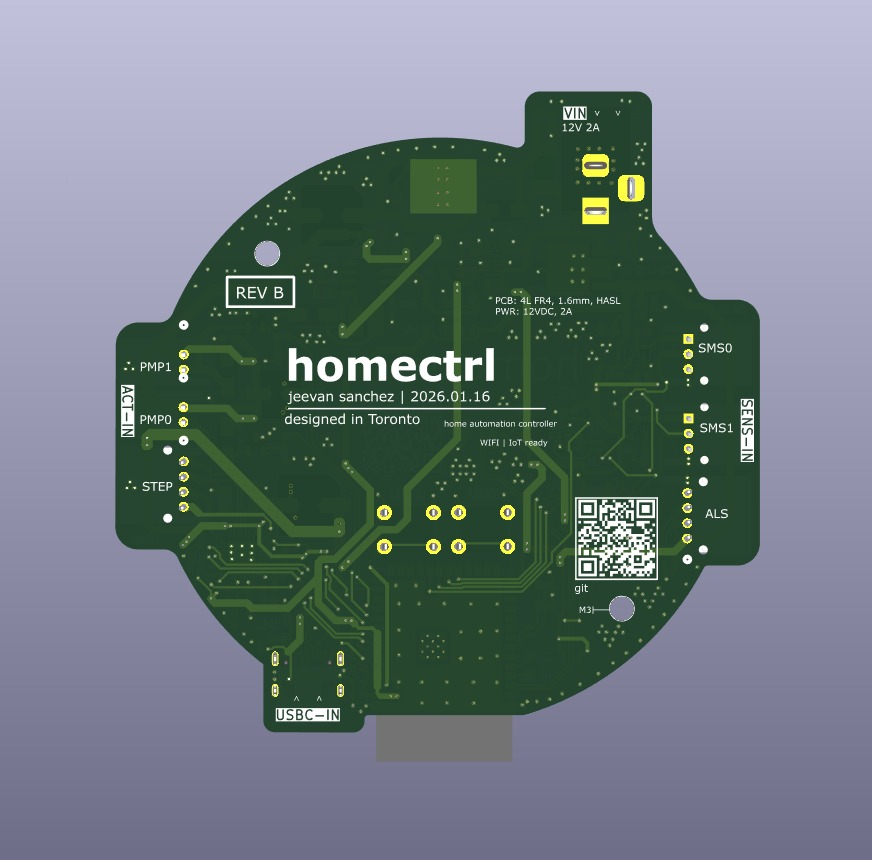
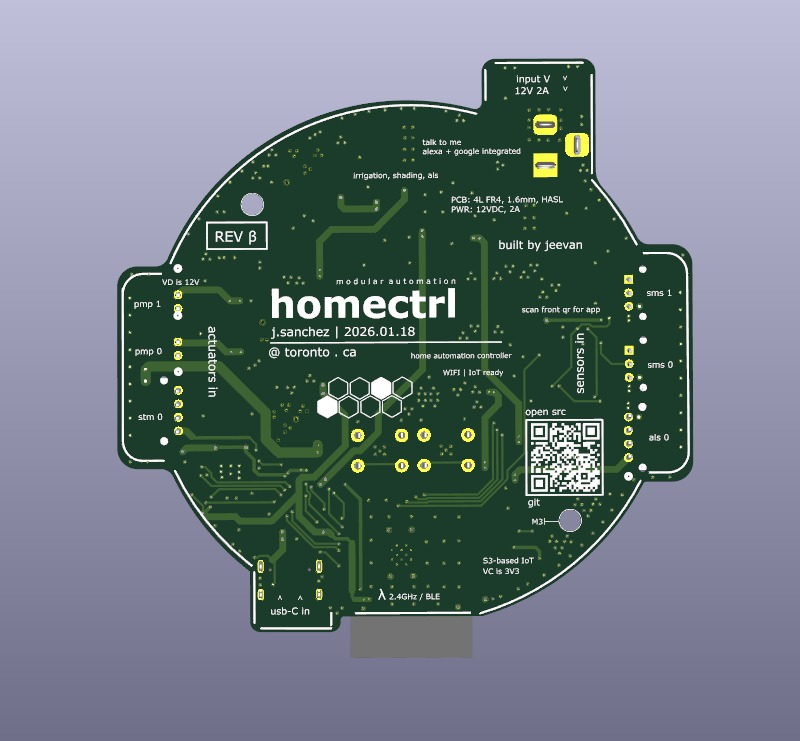
update media and README.md

Changed region(s): [[0.125, 0.0621, 0.875, 0.8691]]

diff --git a/README.md b/README.md
@@ -1,25 +1,24 @@
 # homectrl
 > Smart home automation controller designed in KiCad; dashboard built with Next.js, firmware in Arduino C/C++.
 
-**Huge thanks to PCBWay for sponsoring this project's first revision.**<br>
-[Check out **REV A**](https://github.com/jeevan9s/homectrl-sys/tree/rev-A)
+**huge thanks to PCBWay for sponsoring this project's first revision.**<br>
+[check out **REV A**](https://github.com/jeevan9s/homectrl-sys/tree/rev-A)
 
 <hr>
 
 **REV B Updates**: 
-* The board is currently being fabbed!
-* Main controller has a tighter layout, with an SMD-first layout, and mixed-signal design (4L). 
-* Designed a standalone [ALS](https://github.com/jeevan9s/homectrl-sys/tree/rev-B/hardware/lux-module) (Ambient-Light-Sensor) breakout module for further automation capability.
-* All IC breakout circuitry was custom desgined, no breakout-boards were used. 
-* Onboard ADC, and motor control (MOSFET, Stepper Driver) were implemented. 
+* board is currently out for fab. 
+* main controller features a much more compact layout, 4L mixed-signal design, SMD-first component selection. 
+* onboard ADC, stepper motor driver, power management. 
+* all IC breakout circuitry was custom desgined, no breakout-boards were used. 
+* designed a standalone [ALS](https://github.com/jeevan9s/homectrl-sys/tree/rev-B/hardware/lux-module) (ambient-light-sensor) breakout module for further automation capability.
+
 
 <details>
 <summary>Contents</summary>
 
 - [overview](#overview)
 - [architecture](#architecture)
-  - [firmware](#firmware)
-  - [hardware](#hardware)
 - [prerequisites / installation](#prerequisites--installation)
 - [acknowledgements](#acknowledgements)
 - [contact](#contact)
